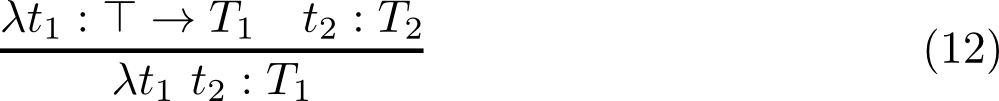
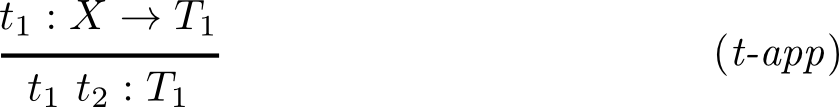
updated diagrams and new images for the second cs post

diff --git a/_diagrams/coffee-script-fix.tex b/_diagrams/coffee-script-fix.tex
@@ -164,6 +164,22 @@
 }
 \end{equation}
 
+\begin{equation*}
+\trfrac[\rulelabel{e-app-eval}]{
+  \trfrac[\rulelabel{e-inv}]{}{
+    \lambda \lambda \lit*{true()} \rightarrow \lambda \lit*{true}
+  }
+}{
+  \lambda \lambda \lit*{true()} \ \lit*{false} \rightarrow \lambda \lit*{true} \ \lit*{false}
+}
+\end{equation*}
+
+\begin{equation*}
+\trfrac[\rulelabel{e-app}]{}{
+  \lambda \lit*{true} \ \lit*{false} \rightarrow \lit*{true}
+}
+\end{equation}
+
 \newpage
 
 \section{Type Rules}
@@ -217,13 +233,23 @@
 
 \begin{equation*}
 \trfrac[\rulelabel{t-app}]{
-  \trfrac[\rulelabel{t-lambda}]{
-    \trfrac[\rulelabel{t-true}]{}{\lit*{true} : Bool}
+  \trfrac[\rulelabel{t-inv}]{
+    \trfrac[\rulelabel{t-lambda}]{
+      \trfrac[\rulelabel{t-lambda}]{
+        \trfrac[\rulelabel{t-false}]{}{
+          \lit*{false} :  Bool
+        }
+      }{
+        \lambda \lit*{false} : X \rightarrow Bool
+      }
+    }{
+      \lambda \lambda \lit*{false} : X \rightarrow ( X \rightarrow Bool )
+    }
   }{
-     \lambda \lit*{true}  : X \rightarrow Bool
+    \lambda \lambda \lit*{false}  \lit*{()} : X \rightarrow Bool
   }
 }{
-     \lambda \lit*{true}  \  \lambda \lambda \lit*{false}  \lit*{()}: Bool
+     \lambda \lambda \lit*{false}  \lit*{()} \ \lit*{true} : Bool
 }
 \end{equation*}
 
@@ -240,6 +266,22 @@
     }
   }{
      \lambda \lit*{true}  \lit*{()} \ \lambda \lit*{false} : \ ??
+  }
+\end{equation*}
+
+\begin{equation*}
+  \trfrac[\rulelabel{t-app}]{
+    \trfrac[\rulelabel{t-inv}]{
+      \trfrac[\rulelabel{t-lambda}]{
+        \trfrac[\rulelabel{t-true}]{}{\lit*{true} : Bool}
+      }{
+         \lambda \lit*{true} : X \rightarrow Bool
+      }
+    }{
+       \lambda \lambda \lit*{true}  \lit*{()} : X \rightarrow Bool
+    }
+  }{
+     \lambda \lambda \lit*{true}  \lit*{()} \ \lit*{false} : Bool
   }
 \end{equation*}
 

diff --git a/_posts/2012-11-23-math-envy-and-coffeescripts-foibles-2.md b/_posts/2012-11-23-math-envy-and-coffeescripts-foibles-2.md
@@ -41,7 +41,7 @@ _t-inv_ shows how to determine the type of lambda invocation like `(-> true)()`.
   <img src="/assets/images/diagrams/cs-type-rules-lambda-application.png"></img>
 </div>
 
-_t-app_ is the type rule for lambda applications, eg. `(-> true) false`. The premise says that if the lambda term `λt` on the left has the type `X -> T` and the term on the right as second type `T` the conclusion is that the application will have the result type of the lambda term. Again, the type of an application, like invocation, is only concerned with the type of the *first* lambda's subterm `t` and it ignores the argument that it consumes.
+_t-app_ is the type rule for lambda applications, eg. `(-> true) false`. The premise says that if the lambda term `λt` on the left has the type `X -> T` the conclusion is that the application will have the result type of the lambda term. Again, the type of an application, like invocation, is only concerned with the type of the *first* lambda's subterm `t` and it ignores the argument that it consumes.
 
 ## Type Rule Stacking
 
@@ -58,24 +58,24 @@ Just like derivation trees with evaluation rules this notation makes it easy to 
 This higlights how to derive the type at the bottom from it's subterms. Typing the innermost subterm `true` with _t-true_. That can then be "stacked" by using it to replace the premise of type rule _t-lambda_. The type derivation expands from the subterm to establish each subsequent parent term's type. Another more complex derivation:
 
 ```coffeescript
-(-> true) (-> (-> false))()
+(-> (-> false))() true
 ```
 
 <div class="center">
-  <img src="/assets/images/diagrams/cs-type-derivation-complex.png"></img>
+  <img style="width: 300px" src="/assets/images/diagrams/cs-type-derivation-complex.png"></img>
 </div>
 
-Since there are two subterms involved in application, each branch extends upward until it reaches the atomic value types `true : Bool` and `false : Bool`. The subterm on the left is identical to equation 13. On the right, the nested lambdas and invocation make for a taller stack of type rules to reach the atomic `false`.
+The second subterm of the application is unimportant where the type of the term is concerned and as a result it's wholy ignored. Working on the left term, the tree extends upward until it reaches the atomic value type, `false : Bool`. The complexity of nested lambdas and invocation make for a taller stack of type rules to reach the atomic `false` when compared with the previous example.
 
 ## Not Quite There
 
 At this point the type rules can describe the original issue. A derivation tree based on the typing rules highlights that the term is untypable. Taking our canonical example, `(-> true)() -> false`:
 
 <div class="center">
-  <img src="/assets/images/diagrams/cs-type-derivation-original-issue.png"></img>
+  <img style="width: 300px" src="/assets/images/diagrams/cs-type-derivation-original-issue.png"></img>
 </div>
 
-Once the derivation tree reaches the outermost term it breaks. There is no type rule for the application of `true` to a lambda term like `(-> false)`. It's a type error.
+Once the derivation tree reaches the outermost term it breaks. There is no type rule for the application of `true` to a lambda term like `(-> false)` since _t-app_ requires the first term to have the type `X -> T` in its premise. It's a type error.
 
 Previously we saw that this this would result in a type error under evaluation by the CoffeeScript interpreter. We also saw that it was easy to construct a term that suffered the same semantic confusion without the type error `(-> (-> true))() -> false`. This issue applies to the type derivation as well.
 
@@ -116,17 +116,21 @@ Value  : bool                       { BooleanExpr $1 }
 
 There are two differences from the original grammar definition. Lambda terms in parenthesis are just a convenience for readability. More importantly application requires that any term be permitted as the left side. This enables the grammar to reproduce the original issue since `(-> true)() -> false` translates to an invocation applied to a lambda term. The corrected grammar:
 
-!! include image of whole fixed grammar
+<div class="center">
+  <img style="width: 200px;" src="/assets/images/diagrams/cs-grammar-corrected.png"></img>
+</div>
 
-With the corrected grammar an additional inference rule is required to ensure the left term of an application is fully evaluated befor applying it [!!].
+Also, a correction and an addition must be made to the inference rules to ensure that any term type is permitted as the left half of an application, and that it is fully evaluated befor applying it [!!].
 
-!! include image of e-arg-eval and e-app-eval
+<div class="center">
+  <img src="/assets/images/diagrams/cs-inference-rules-corrected.png"></img>
+</div>
 
-Where _e-arg-eval_ ensures that the argument of an application is fully evaluated, _e-app-eval_ ensures that the applicand is fully evaluated before the application takes place. The AST result from the parser is built with Haskell types. Pattern matching can be used with the type and inference rules to produce evaluation and derivation results.
+Where _e-arg-eval_ ensures that the argument of an application is fully evaluated, _e-app-eval_ ensures that the applicand is fully evaluated before the application takes place.
 
 ## Matching Rules
 
-To start let's look at a simple evaluator and derivation builder implementation.
+The abstract representation produced by the parser is simple tree structure built with Haskell types. Pattern matching can be used with the type and inference rules to produce evaluation and derivation results. To start let's look at a simple evaluator and derivation builder implementation.
 
 ```haskell
 -- an enumeration of each inference rule
@@ -179,7 +183,9 @@ matchRule (Apply a@(Apply _ _) t) = RuleMatch AppEval (Just a) t
 
 _e-arg-eval_ and _e-app-eval_ are more complicated than either _e-inv_ or _e-app_ which makes sense when comparing them as inference rules. Both _e-arg-eval_ and _e-app-eval_ carry a premise.
 
-!! include image of both of inference rules
+<div class="center">
+  <img src="/assets/images/diagrams/cs-inference-rules-app-argeval.png"></img>
+</div>
 
 Both rules require that some evaluation take place on one of the subterms. More importantly the shape of the term remains the same. Neither _e-arg-eval_ or _e-app-eval_ change the shape of the term to which they apply, only the shape of the sub terms. This is in contrast to _e-inv_ and _e-app_ which discard the invocation operator and second term respectively. As a result the `RuleMatch` contains the subterm that needs to be evaluated further and the other subterm that remains stagnant. Note that the _e-arg-eval_ rule is applied first so that the _e-app-eval_ rule can ignore the second subterm under the assumption that it's a value term (ie, not `Invoke` or `Apply`).
 
@@ -240,7 +246,10 @@ Apply (Invoke (Lambda (Lambda (BooleanExpr True)))) (BooleanExpr False)
 
 In english, the application of an invocation of a lambda with a lambda subterm to a boolean value. The resulting derivation tree in the original derivation tree notation takes the form:
 
-!! include image derivation tree
+<div class="center">
+  <img src="/assets/images/diagrams/cs-derivation-trees-ast-example.png"></img>
+</div>
+
 
 The `Derivation` instance has to work from the outside in so it's much harder to read than the notation, but it contains the same information
 
@@ -333,7 +342,9 @@ Apply (Invoke (Lambda (Lambda (BooleanExpr True)))) (BooleanExpr False)
 
 The type derivation using logic notation looks like:
 
-!! include image derivation tree
+<div class="center">
+  <img style="width: 300px" src="/assets/images/diagrams/cs-type-derivation-ast-example.png"></img>
+</div>
 
 The `Derivation` instance corresponding the the logic notation is again much larger but captures the same information (formatting added after the fact):
 
@@ -355,11 +366,15 @@ For this CoffeeScript subset we've seen that it's possible to build an understan
 
 One approach would be to first compare the `S` values for two triples and then determinine if the `E` and `T` values match. Terms with "similar" `S` values but different `E` or `T` values might be ambigous and could be flagged for review. Using the [Levenshtein Distance](http://en.wikipedia.org/wiki/Levenshtein_distance) to keep the calculation for similarity simple:
 
-!! insert image of dist func
+<div class="center">
+  <img src="/assets/images/diagrams/cs-dist.png"></img>
+</div>
 
 _dist_ is the Levenshtein distance function and _dist_ is just the ratio of the distance between the two strings and the maximum length of both. This is sometimes referred to as the Levenshtein Ratio. Providing a ratio allows for a baseline with a given grammar that might capture all "very similar" terms regardless of the term length. For `(-> true)() -> false` and `(-> true) () -> false`:
 
-!! insert image of dist invocation
+<div class="center">
+  <img style="width: 300px" src="/assets/images/diagrams/cs-dist-example.png"></img>
+</div>
 
 An exact value for string distance that can be reconciled as a threshold "setting" makes building an automated tool a bit easier. That is, if two terms are deemed "close enough" by virtue of their _dist_ value being below a pre-determined threshold and they have different information in either `E` or `T` then they might be flagged.
 
